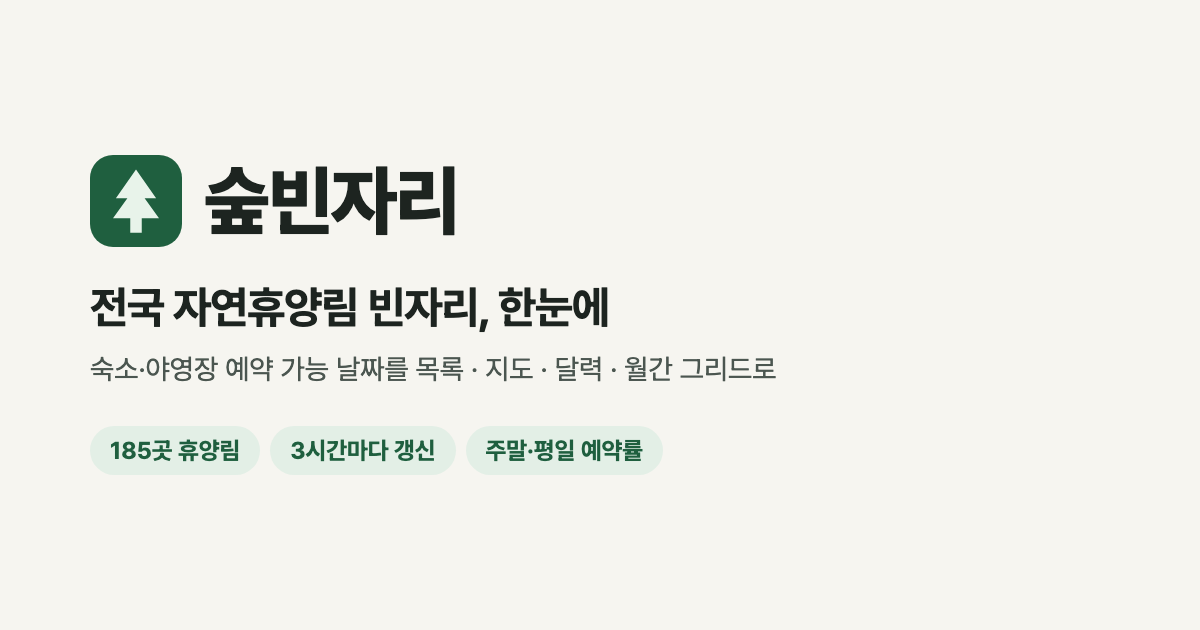
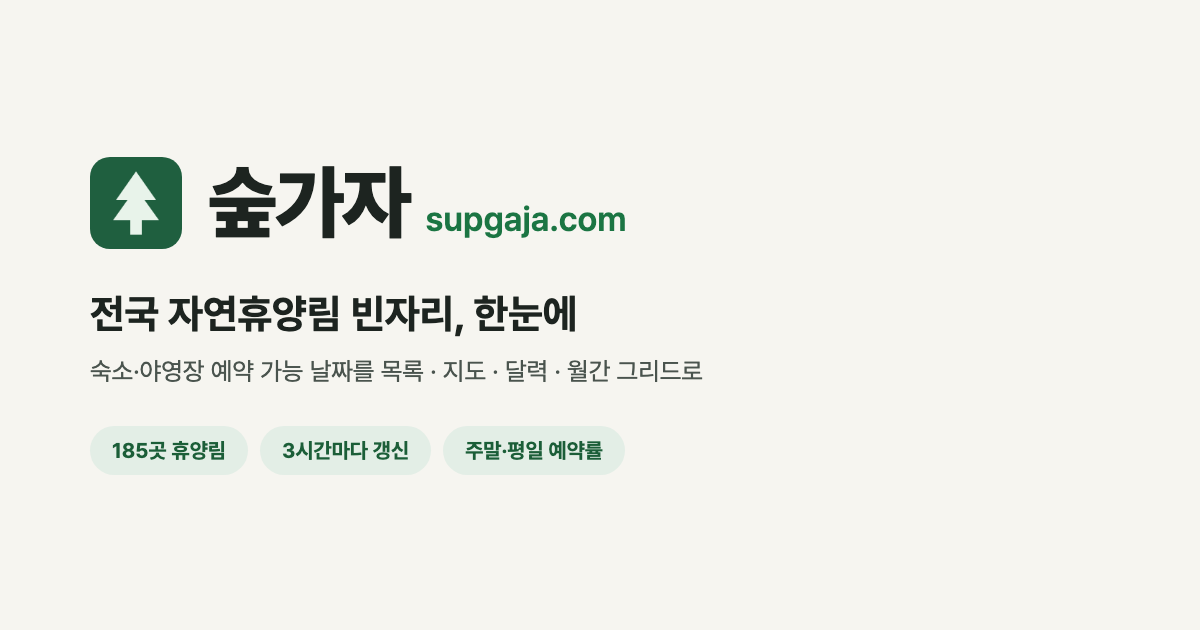
브랜드 이름을 숲가자로 바꾸고 대표 주소를 supgaja.com으로 변경
canonical·og·sitemap·robots·manifest·404·OG 이미지 갱신

diff --git a/web/index.html b/web/index.html
@@ -3,29 +3,29 @@
   <head>
     <meta charset="UTF-8" />
     <meta name="viewport" content="width=device-width, initial-scale=1.0, viewport-fit=cover" />
-    <title>숲빈자리 · 전국 자연휴양림 예약 빈자리 찾기</title>
+    <title>숲가자 · 전국 자연휴양림 예약 빈자리 찾기</title>
     <meta name="description" content="전국 자연휴양림 185곳의 숙소·야영장 예약 빈자리와 취소표를 3시간마다 모아 날짜·지역·인원·주말 요금으로 한 번에 찾습니다. 예약은 숲나들e에서." />
-    <link rel="canonical" href="https://forest-trip-seven.vercel.app/" />
+    <link rel="canonical" href="https://supgaja.com/" />
     <link rel="icon" type="image/svg+xml" href="/favicon.svg" />
     <link rel="apple-touch-icon" href="/apple-touch-icon.png" />
     <link rel="manifest" href="/manifest.webmanifest" />
     <meta name="theme-color" content="#f6f5f0" media="(prefers-color-scheme: light)" />
     <meta name="theme-color" content="#121614" media="(prefers-color-scheme: dark)" />
     <meta property="og:type" content="website" />
-    <meta property="og:site_name" content="숲빈자리" />
+    <meta property="og:site_name" content="숲가자" />
     <meta property="og:locale" content="ko_KR" />
-    <meta property="og:url" content="https://forest-trip-seven.vercel.app/" />
-    <meta property="og:title" content="숲빈자리 · 전국 자연휴양림 예약 빈자리 찾기" />
+    <meta property="og:url" content="https://supgaja.com/" />
+    <meta property="og:title" content="숲가자 · 전국 자연휴양림 예약 빈자리 찾기" />
     <meta property="og:description" content="전국 휴양림 숙소·야영장 예약 빈자리와 취소표를 3시간마다 모아 한눈에 보여 줍니다." />
-    <meta property="og:image" content="https://forest-trip-seven.vercel.app/og-image.png" />
+    <meta property="og:image" content="https://supgaja.com/og-image.png" />
     <meta property="og:image:width" content="1200" />
     <meta property="og:image:height" content="630" />
-    <meta property="og:image:alt" content="숲빈자리 - 전국 자연휴양림 빈자리, 한눈에" />
+    <meta property="og:image:alt" content="숲가자 - 전국 자연휴양림 빈자리, 한눈에" />
     <meta name="twitter:card" content="summary_large_image" />
-    <meta name="twitter:title" content="숲빈자리 · 전국 자연휴양림 예약 빈자리 찾기" />
+    <meta name="twitter:title" content="숲가자 · 전국 자연휴양림 예약 빈자리 찾기" />
     <meta name="twitter:description" content="전국 자연휴양림 숙소·야영장 예약 빈자리를 한 번에." />
-    <meta name="twitter:image" content="https://forest-trip-seven.vercel.app/og-image.png" />
-    <script type="application/ld+json">{"@context":"https://schema.org","@type":"WebSite","name":"숲빈자리","alternateName":"전국 자연휴양림 예약 빈자리 찾기","url":"https://forest-trip-seven.vercel.app/","inLanguage":"ko"}</script>
+    <meta name="twitter:image" content="https://supgaja.com/og-image.png" />
+    <script type="application/ld+json">{"@context":"https://schema.org","@type":"WebSite","name":"숲가자","alternateName":"전국 자연휴양림 예약 빈자리 찾기","url":"https://supgaja.com/","inLanguage":"ko"}</script>
     <!-- 데이터는 JS 번들을 기다리지 않고 바로 받기 시작한다(앱이 이 요청을 그대로 쓴다) -->
     <script>window.__statusReq = fetch('/data/status.json');</script>
     <link rel="preconnect" href="https://cdn.jsdelivr.net" crossorigin />
@@ -37,7 +37,7 @@
     <div id="root">
       <!-- JS 실행 전과 검색·미리보기 봇에 보이는 소개. 앱이 그려지면 대체된다 -->
       <div style="max-width:640px;margin:0 auto;padding:72px 16px;text-align:center;color:#4b5650;font-family:-apple-system,BlinkMacSystemFont,'Apple SD Gothic Neo','Malgun Gothic',sans-serif;line-height:1.6">
-        <h1 style="margin:0 0 8px;font-size:22px;color:#1d2420">숲빈자리 · 전국 자연휴양림 예약 빈자리 찾기</h1>
+        <h1 style="margin:0 0 8px;font-size:22px;color:#1d2420">숲가자 · 전국 자연휴양림 예약 빈자리 찾기</h1>
         <p style="margin:0 0 20px">전국 국립·공립·사립 자연휴양림 185곳의 숙소와 야영장 예약 빈자리, 취소표를 숲나들e 예약현황에서 3시간마다 모아 목록·지도·달력·월간 그리드로 보여 줍니다. 주말·연박·인원·편의시설 조건과 주말 요금, 예약률로 골라 보세요.</p>
         <p style="margin:0;color:#646e68">전국 휴양림 빈자리를 불러오는 중…</p>
       </div>

diff --git a/web/src/App.tsx b/web/src/App.tsx
@@ -164,7 +164,7 @@ export default function App() {
               <svg viewBox="0 0 32 32"><path d="M16 3l-8 11h4.5l-6 8H13v6h6v-6h6.5l-6-8H24z" fill="#e8f3ea" /></svg>
             </span>
             <span>
-              <h1 className="brand-name">숲빈자리<small className="hide-sm"> · 전국 자연휴양림 예약 빈자리 찾기</small></h1>
+              <h1 className="brand-name">숲가자<small className="hide-sm"> · 전국 자연휴양림 예약 빈자리 찾기</small></h1>
             </span>
           </a>
           <span className="spacer" />
@@ -253,7 +253,7 @@ export default function App() {
         )}
         <footer>
           <p>
-            숲빈자리는 숲나들e(foresttrip.go.kr)에 공개된 월별 예약현황을 주기적으로 모아 보여 주는 <b>비공식 참고용</b> 서비스입니다.
+            숲가자는 숲나들e(foresttrip.go.kr)에 공개된 월별 예약현황을 주기적으로 모아 보여 주는 <b>비공식 참고용</b> 서비스입니다.
             국립자연휴양림관리소 및 각 지자체와 제휴하지 않았습니다.
           </p>
           <p>

diff --git a/web/public/404.html b/web/public/404.html
@@ -3,7 +3,7 @@
 <head>
 <meta charset="UTF-8" />
 <meta name="viewport" content="width=device-width, initial-scale=1.0, viewport-fit=cover" />
-<title>페이지를 찾을 수 없습니다 · 숲빈자리</title>
+<title>페이지를 찾을 수 없습니다 · 숲가자</title>
 <meta name="robots" content="noindex" />
 <link rel="icon" type="image/svg+xml" href="/favicon.svg" />
 <style>
@@ -23,7 +23,7 @@
   <svg viewBox="0 0 32 32" aria-hidden="true"><rect width="32" height="32" rx="8" fill="#1f5f3f"/><path d="M16 5l-7 10h4l-5 7h6v5h4v-5h6l-5-7h4z" fill="#e8f3ea"/></svg>
   <h1>페이지를 찾을 수 없습니다</h1>
   <p>주소가 바뀌었거나 없는 페이지입니다. 홈에서 전국 휴양림 빈자리를 다시 찾아보세요.</p>
-  <a href="/">숲빈자리 홈으로</a>
+  <a href="/">숲가자 홈으로</a>
 </main>
 </body>
 </html>

diff --git a/web/src/components/GridView.tsx b/web/src/components/GridView.tsx
@@ -73,7 +73,7 @@ export function GridView({ results, status, filters, onOpen }: Props) {
     const csv = '' + lines.map((l) => l.map((c) => `"${c.replaceAll('"', '""')}"`).join(',')).join('\n');
     const a = document.createElement('a');
     a.href = URL.createObjectURL(new Blob([csv], { type: 'text/csv;charset=utf-8' }));
-    a.download = `숲빈자리_${addDaysISO(start, lo)}_${addDaysISO(start, hi)}.csv`;
+    a.download = `숲가자_${addDaysISO(start, lo)}_${addDaysISO(start, hi)}.csv`;
     a.click();
     URL.revokeObjectURL(a.href);
   };

diff --git a/README.md b/README.md
@@ -1,4 +1,4 @@
-# 숲빈자리 — 전국 자연휴양림 빈자리 찾기
+# 숲가자 — 전국 자연휴양림 빈자리 찾기
 
 숲나들e(foresttrip.go.kr) 월별 예약현황을 3시간마다 모아서 전국 자연휴양림 숙소·야영장의 빈자리를
 **목록 · 지도 · 달력 · 월간 그리드**로 한 번에 보여 주는 정적 웹사이트입니다.
